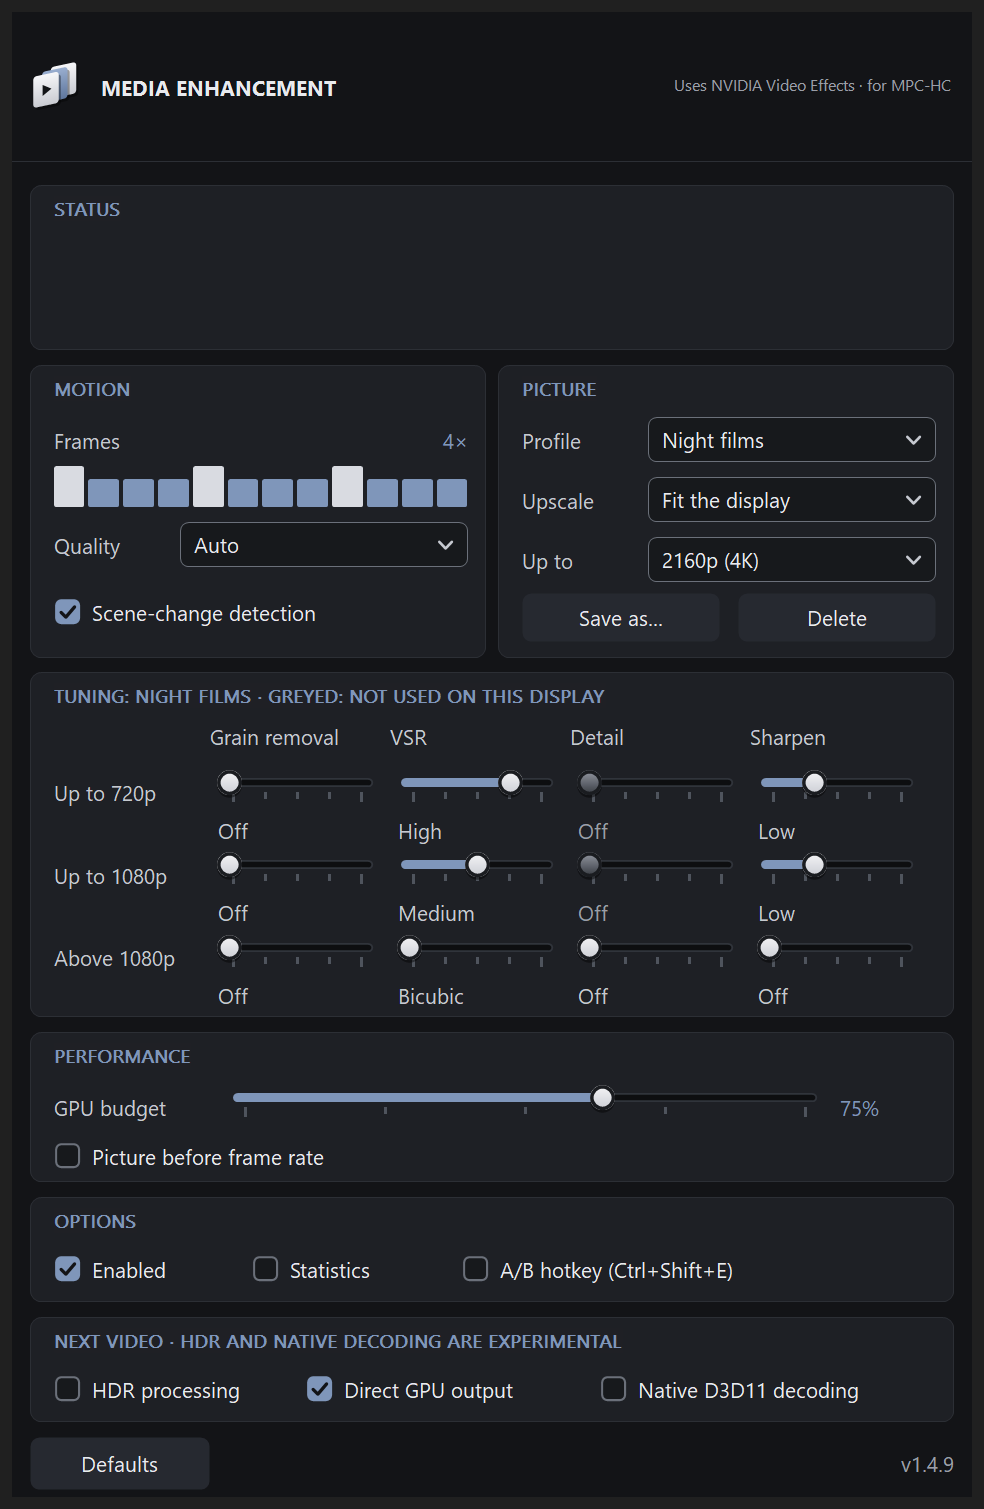
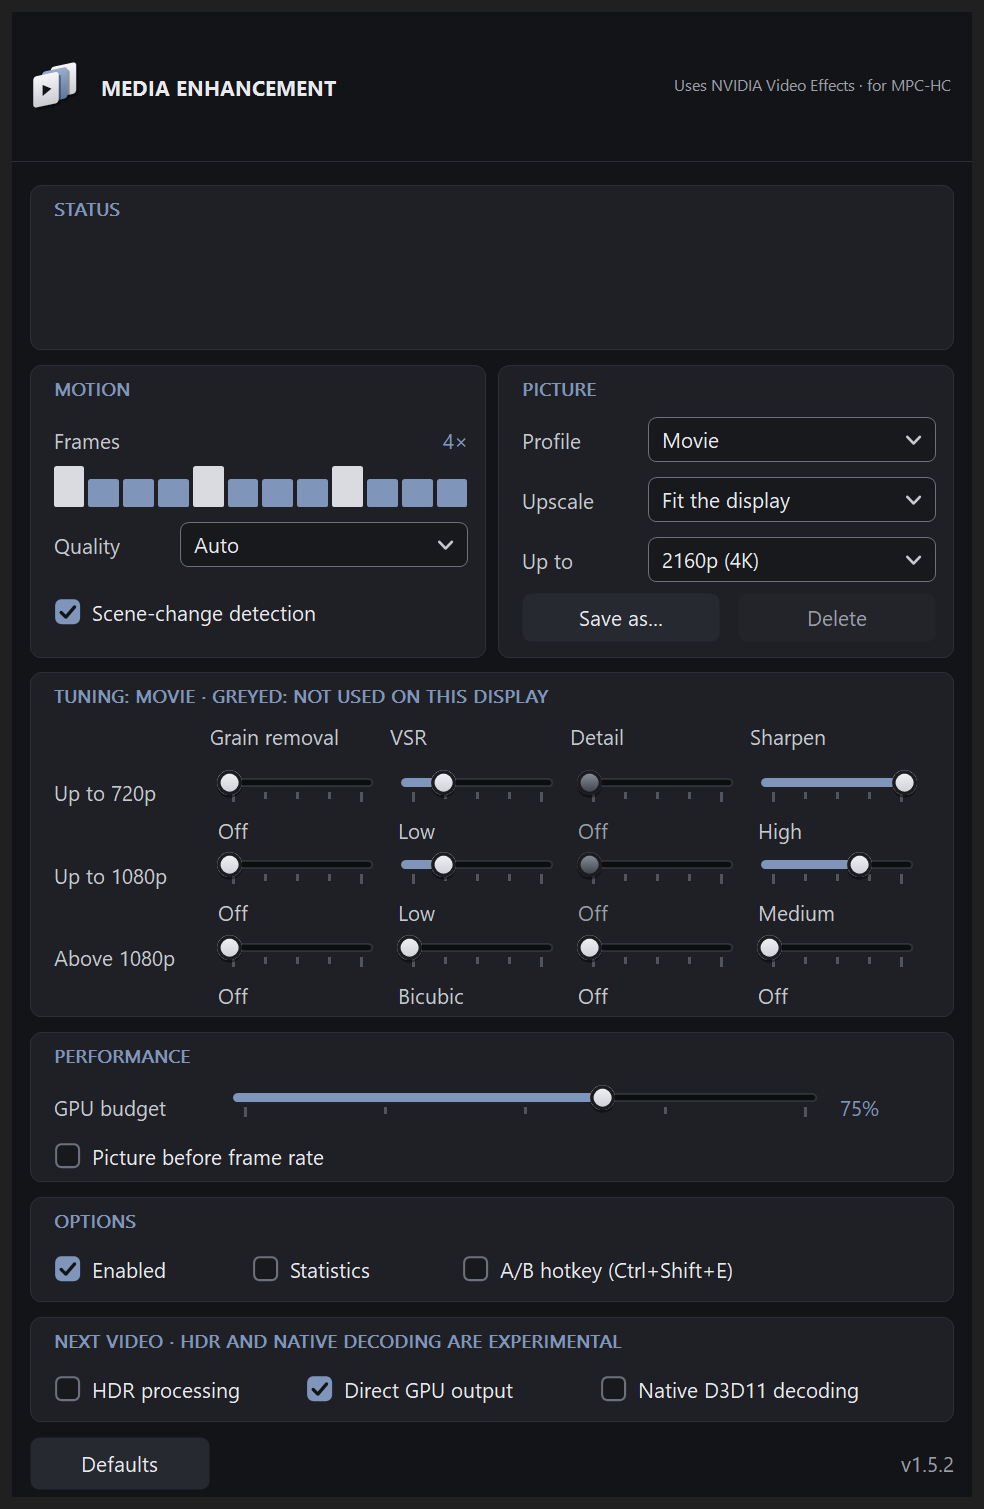
README pictures of 1.5.2 and converter 0.6.2; descriptions brought up to date
New pictures, taken in the isolated test player and the published converter (status lines and paths left out): the
control center, the MPC-HC menu and the settings panel of 1.5.2 with the Movie profile's default levels (sharpening
High up to 720p, Medium up to 1080p) at 4x, and the converter 0.6.2 window and split view. The introduction names the
converter; direct GPU output is described as on by default, as it has been since 1.4.0.

Claude-Session: https://claude.ai/code/session_01Af5hEsQram3B9KX5UcWWQt

diff --git a/README.md b/README.md
@@ -9,7 +9,7 @@ Media Enhancement improves video playback in MPC-HC on PCs with an NVIDIA RTX gr
 
 It works as a DirectShow filter between the video decoder and the video renderer, so MPC-HC and MPC Video Renderer stay unmodified.
 
-A [browser extension](#browser-extension) brings upscaling, frame generation and picture controls to video played in Chrome, Edge and Firefox.
+A [converter](#converter) applies the same enhancements to video files, so the result plays anywhere. A [browser extension](#browser-extension) brings upscaling, frame generation and picture controls to video played in Chrome, Edge and Firefox.
 
 ![The Media Enhancement control center](docs/images/control-center.png)
 
@@ -50,7 +50,7 @@ The settings can be changed in three places. They all change the same settings, 
 
 <img src="docs/images/settings-panel.png" alt="The settings panel, which Properties opens from the menu" width="562">
 
-The menu's Status line and the panel's status box show live figures while a video plays. They are left empty in these pictures. The pictures on this page were taken with version 1.4.9 and show example settings, not the defaults: a saved custom profile, Night films, with frame generation at 4×.
+The menu's Status line and the panel's status box show live figures while a video plays. They are left empty in these pictures. The pictures on this page were taken with version 1.5.2 and show the Movie profile with its default levels, with frame generation set to 4×.
 
 ## Features
 
@@ -72,7 +72,8 @@ The menu's Status line and the panel's status box show live figures while a vide
   - It greys out settings that have no effect on your display.
   - It marks a choice that would lower frame generation with the rate it lowers to (for example "→ 3×"), and a choice that is too slow on your PC.
 - **A/B hotkey:** compares the enhanced picture with the original while the video plays.
-- **Experimental options**, off by default: HDR processing, direct GPU output to MPC Video Renderer, and native D3D11 decoding.
+- **Direct GPU output** (on by default): with MPC Video Renderer in its D3D11 mode, the filter hands its frames over as GPU textures, without a copy through system memory.
+- **Experimental options**, off by default: HDR processing and native D3D11 decoding.
 
 ## Limits
 
@@ -162,7 +163,7 @@ A preview. It converts a video file to a new file with the same enhancements (up
 
 - Install it with Setup 1.5.2: tick the Media Enhancement Converter option. It gets its own Start-menu shortcut. The original files are not changed.
 - `MediaEnhancementConvert.exe` in the converter's folder is the same engine for the command line.
-- Tested: the engine's 20-case suite on an RTX 5060 with a 120 Hz display (version 0.6.2) and on an RTX 4070 Laptop GPU with a 240 Hz display (version 0.6.0, with the preview pictures).
+- Tested: the engine's 20-case suite on an RTX 5060 with a 120 Hz display (version 0.6.2) and on an RTX 4070 Laptop GPU with a 240 Hz display (version 0.6.0). The pictures show version 0.6.2.
 - It includes FFmpeg 9.0 libraries (LGPL version 3, unchanged).
 
 ## Licence
